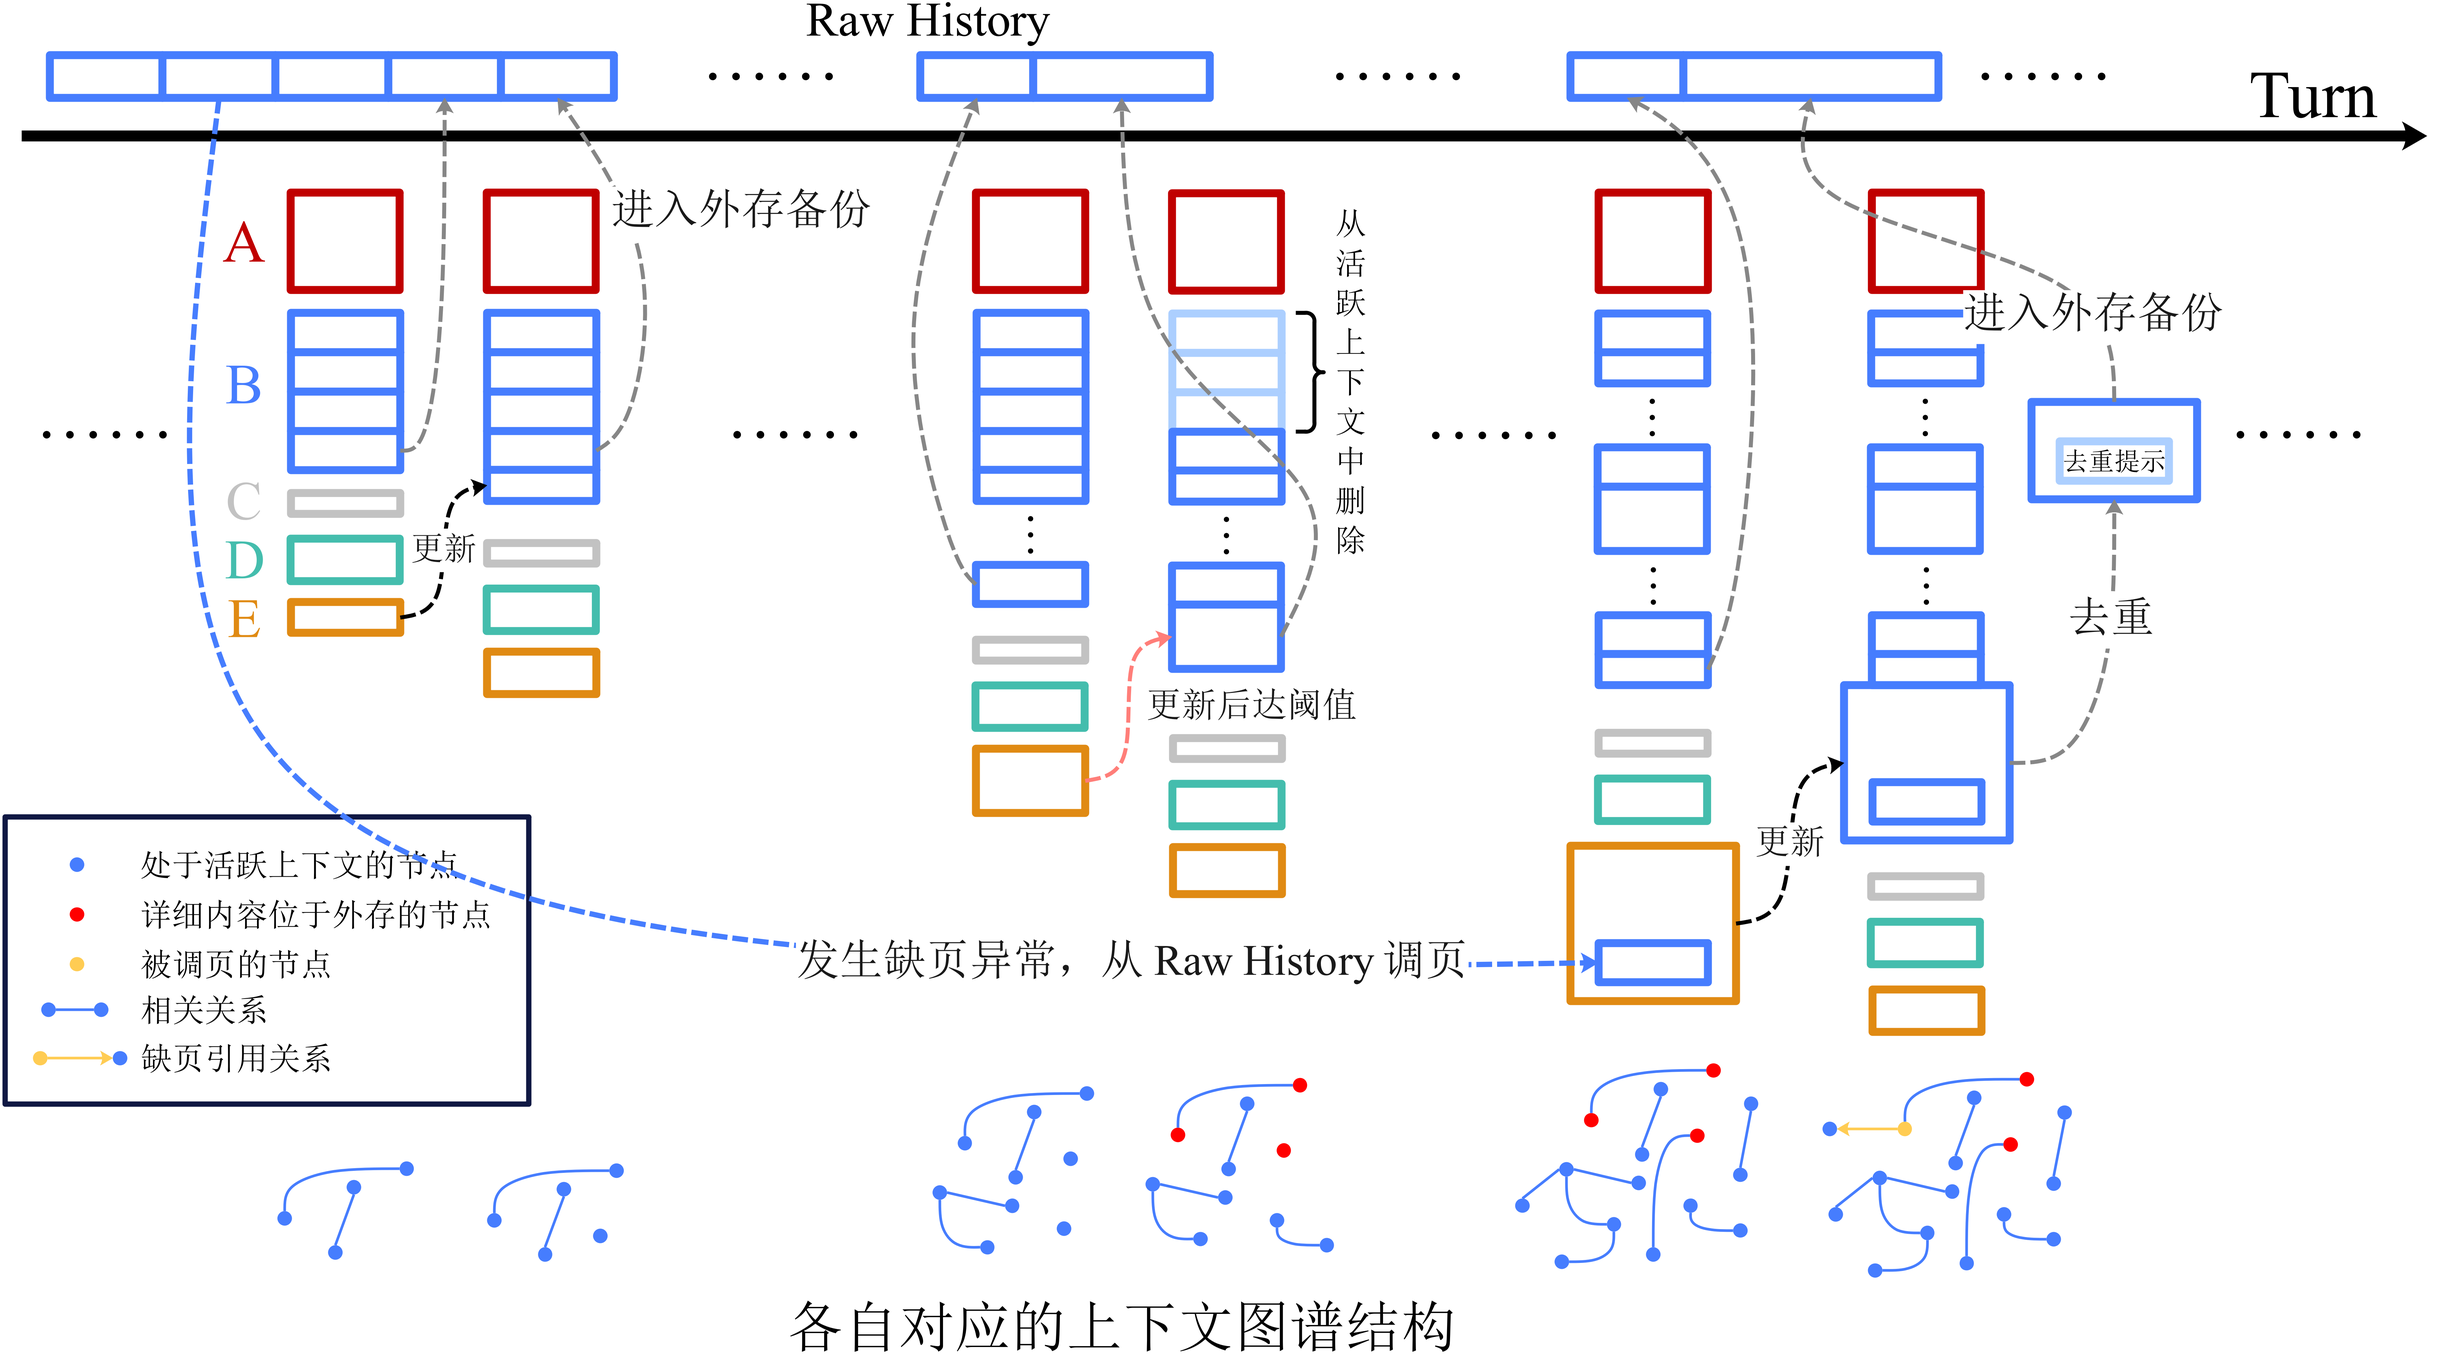
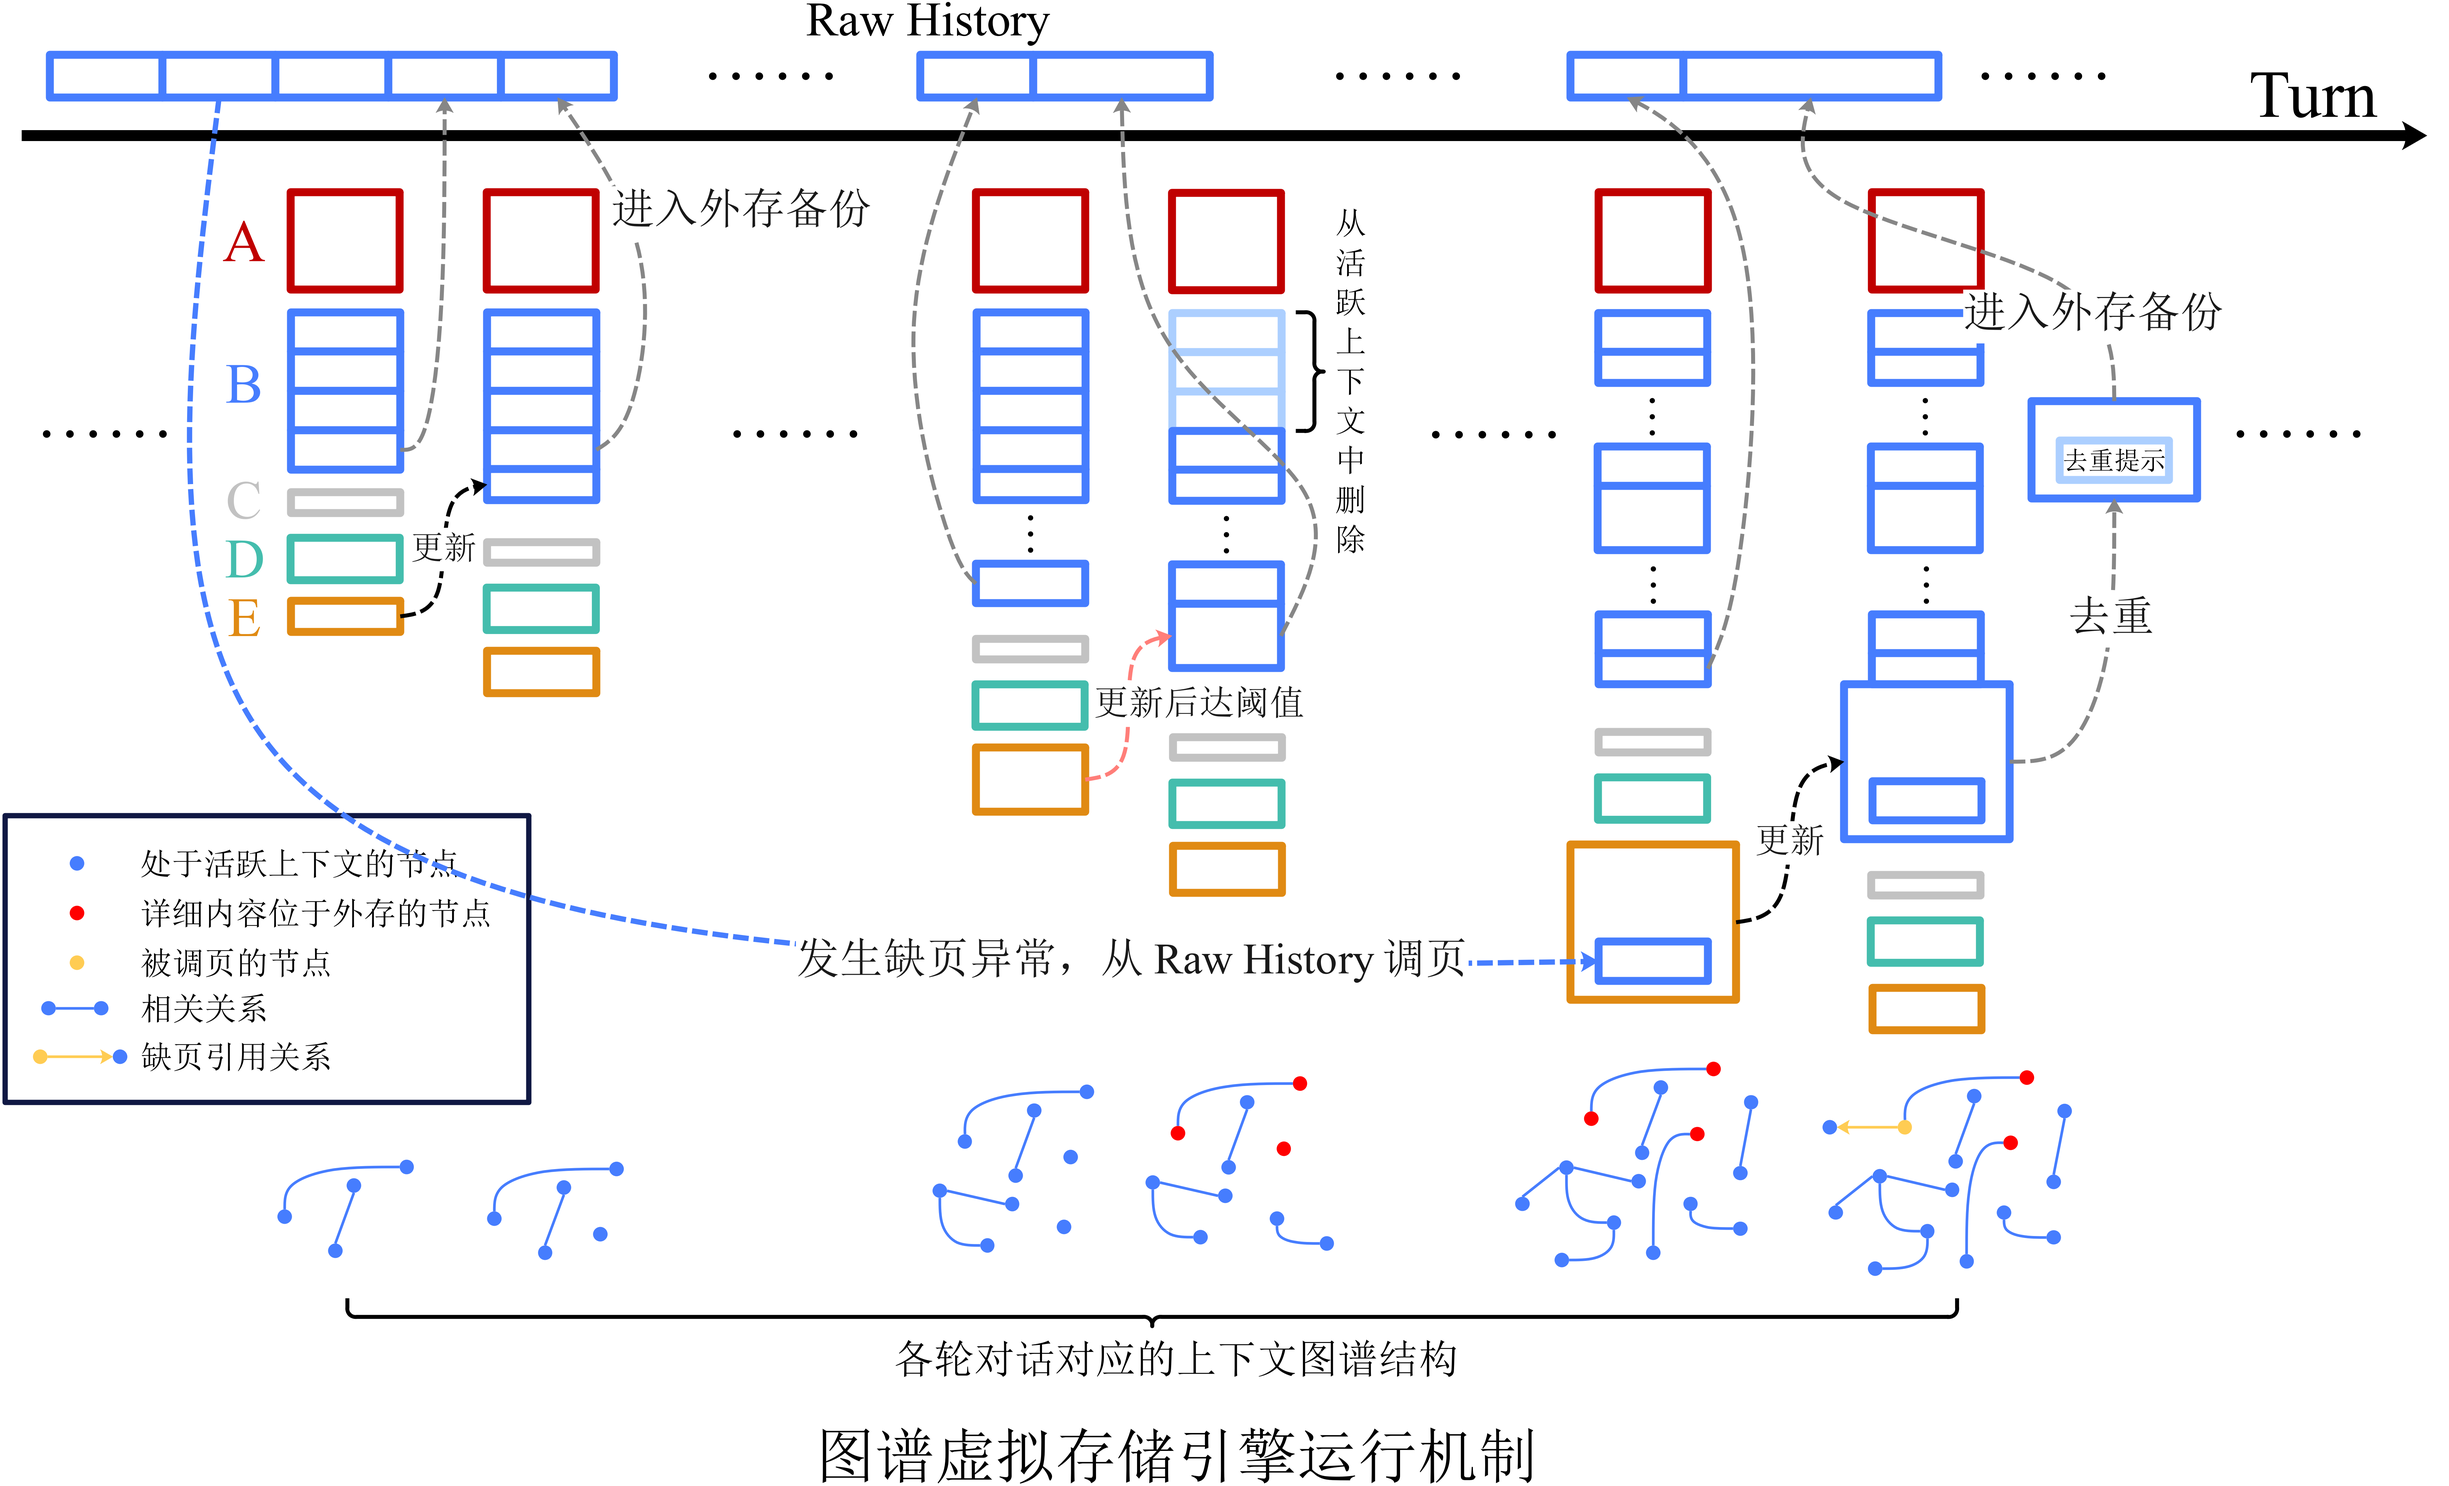
优化了 README.md 中的部分显示错误

diff --git a/README.md b/README.md
@@ -4,7 +4,7 @@
 
 本项目是一个完全基于 Python 语言、从零构建、无任何第三方 Agent 框架依赖的智能编程系统。
 
-针对传统 Agent 系统在长周期、重度代码编辑场景中面临的**“上下文溢出与遗忘”、“编程计划设计困难”、“编程错误累积”和“编程自由探索度较弱”**等问题，本项目引入了**图（Graph）**与**操作系统内存管理（MMU）**的思想，构建了具备**“缺页中断调入”、“基于 Git 的全景分支回退”**和**“工具场景化”**等特性的高可靠代码智能体。
+针对传统 Agent 系统在长周期、重度代码编辑场景中面临的**上下文溢出与遗忘**、**编程计划设计困难**、**编程错误累积**和**编程自由探索度较弱**等问题，本项目引入了**图**与**操作系统内存管理**的思想，构建了具备**缺页中断调入**、**基于 Git 的全景分支回退**和**工具场景化**等特性的高可靠代码智能体。
 
 ---
 
@@ -138,7 +138,7 @@ coding-agent/
 
 #### 上下文的更新
 
-如上图所示，本次对话的上下文（$A_tB_tC_tD_tE_t$）应当由**上一次的上下文更新**得到，具体地 
+如上图所示，本次对话的上下文 $A_tB_tC_tD_tE_t$ 应当由**上一次的上下文更新**得到，具体地 
 
 | 更新方式                                                  | 说明                                                         |
 | :-------------------------------------------------------- | ------------------------------------------------------------ |
@@ -146,7 +146,7 @@ coding-agent/
 | $B_t = B_{t-1} \ \text{concat} \ E_{t-1}$                 | 可能触发上下文压缩，具体内容由[图谱虚拟存储引擎](##1-图谱虚拟存储引擎)描述 |
 | $C_t = C_{t-1} \ \text{concat} \ \text{extract}(E_{t-1})$ |                                                              |
 | $D_t = D_{t-1}$ 进行增量更新                              | 由[图谱虚拟存储引擎](##1-图谱虚拟存储引擎)、[基于任务、文件层次图的协同推理机制](##2-基于任务、文件层次图的协同推理机制)描述 |
-| $E_t =$ 最新输入输出，一般和$E_{t-1}$无关                 |                                                              |
+| $E_t =$ 最新输入输出，一般和 $E_{t-1}$ 无关               |                                                              |
 
 
 
